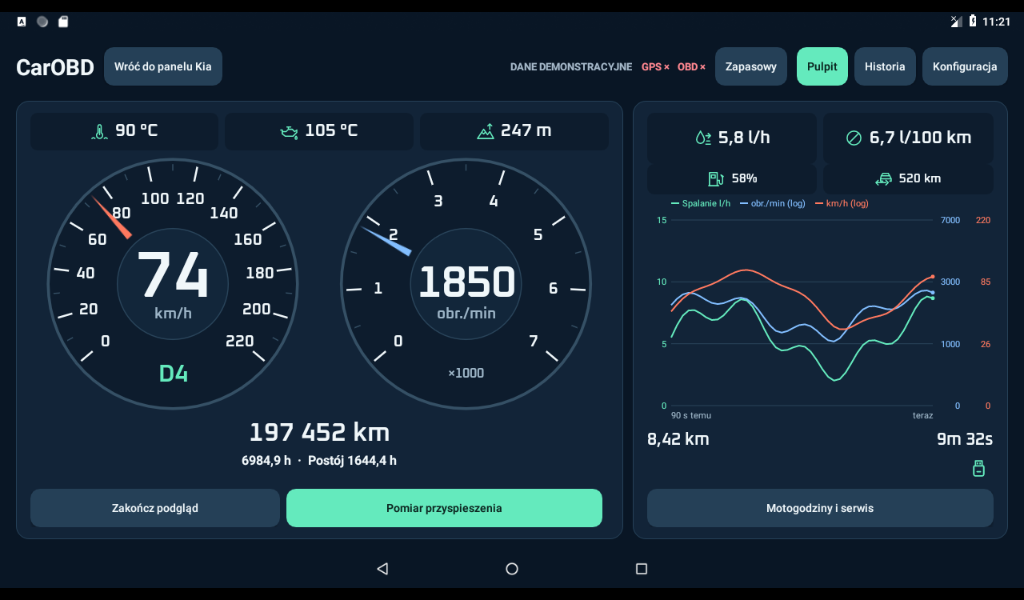
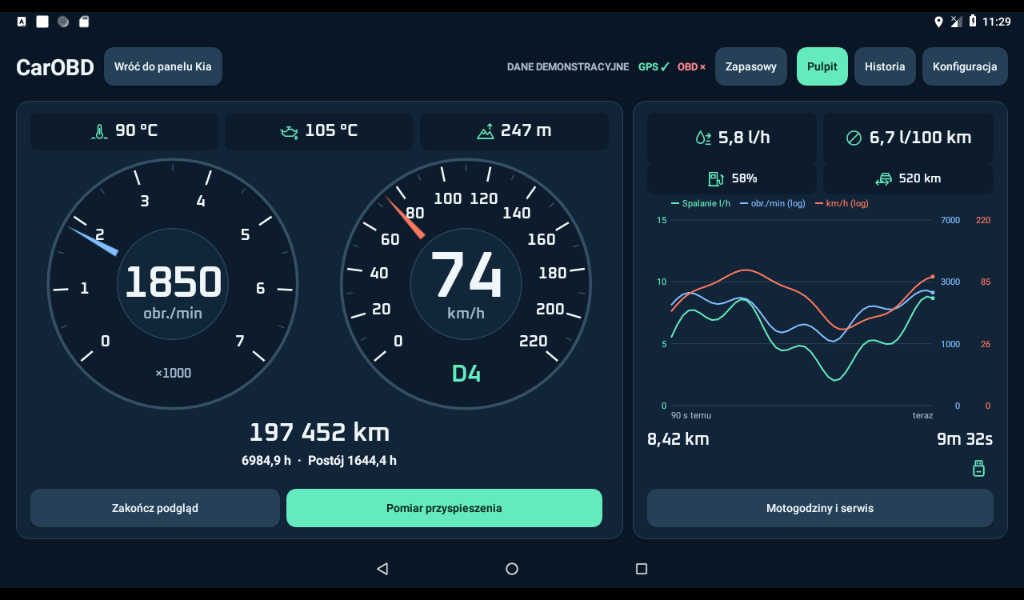
Swap CarOBD dials and prefer measured fuel percentage

diff --git a/android-radio/src/pl/marm/carobd/Dashboard.java b/android-radio/src/pl/marm/carobd/Dashboard.java
@@ -195,9 +195,9 @@ public final class Dashboard extends Activity {
         clockArea.addView(clocks,new FrameLayout.LayoutParams(-1,-1));
         speedDial=new Instruments.Dial(this,instrumentsFont,"Prędkość","km/h",Instruments.SPEED_LIMIT,20,Instruments.ORANGE);
         rpmDial=new Instruments.Dial(this,instrumentsFont,"Obroty","obr./min",Instruments.RPM_LIMIT,1000,Instruments.BLUE);
-        weight(clocks,speedDial,1);
-        gap(clocks,10);
         weight(clocks,rpmDial,1);
+        gap(clocks,10);
+        weight(clocks,speedDial,1);
         recordingDot=new View(this); recordingDot.setBackground(box(RECORDING,6));
         recordingDot.setContentDescription("Trwa zapis przejazdu");
         recordingDot.setImportantForAccessibility(View.IMPORTANT_FOR_ACCESSIBILITY_YES);
@@ -374,11 +374,13 @@ public final class Dashboard extends Activity {
         reading(consumption,(live.fuelSource==2 && !demo && Double.isFinite(live.rate) ? "~" : "")+
             (demo ? "5,8" : fmt(live.rate,1))+" l/h");
         reading(tripMean,(demo ? "6,7" : fmt(live.mean,1))+" l/100 km");
-        double fuel=demo ? 58 : Double.isFinite(live.tankLiters) ? 100*live.tankLiters/Elm.KIA_TANK_L : live.fuel;
+        boolean estimatedFuel=!demo && !Double.isFinite(live.fuel) && Double.isFinite(live.tankLiters);
+        double fuel=demo ? 58 : estimatedFuel ? 100*live.tankLiters/Elm.KIA_TANK_L : live.fuel;
+        tank.setTag(estimatedFuel ? "Poziom paliwa szacowany z litrów OBD" : "Poziom paliwa");
         JSONObject range=EngineHours.kiaProfile(vehicle) ? null : NasHistory.telemetry(settings,vehicle).optJSONObject("range");
         long age=range==null ? Long.MAX_VALUE : System.currentTimeMillis()/1000-range.optLong("t",0);
         double nasRange=age>=0 && age<=6*3600 ? range.optDouble("range_km") : Double.NaN;
-        reading(tank,Double.isFinite(fuel) ? fmt(fuel,0)+"%" : "—");
+        reading(tank,Double.isFinite(fuel) ? (estimatedFuel ? "~" : "")+fmt(fuel,0)+"%" : "—");
         reading(rangeValue,demo ? "520 km" : Double.isFinite(nasRange) ? fmt(nasRange,0)+" km" : "—");
         fuelChart.sample(live.rate,live.rpm,live.speed,now,demo);
         changed(arm,demo ? "Zakończ podgląd" : "Włącz lokalizację");

diff --git a/android-radio/src/pl/marm/carobd/Elm.java b/android-radio/src/pl/marm/carobd/Elm.java
@@ -6,7 +6,7 @@ import java.util.regex.Pattern;
 
 /** Wyłącznie odczyt OBD. Skalowanie jak w CarOBD ESP. */
 final class Elm {
-    static final int COOLANT=0x05, OIL=0x5c;
+    static final int COOLANT=0x05, OIL=0x5c, FUEL_LEVEL=0x2f;
     static final double KIA_TANK_L=71;
     private static final double KIA_ODO_CORRECTION_KM=0.0; // Opcjonalna korekta kalibracji w kilometrach.
     private static final int KIA_ODO_OFFSET=49*2;
@@ -120,7 +120,7 @@ final class Elm {
     Sample read(String fuel, int tick) throws Exception {
         Sample data=new Sample();
         data.rpm=value(0x0c);
-        if (tick % 5 == 0) data.fuel=value(0x2f);
+        if (tick % 5 == 0) data.fuel=value(FUEL_LEVEL);
         boolean diesel="diesel".equals(fuel);
         if (fuelPid==0 && tick % 8 == 0) {
             for (int pid : diesel ? new int[]{0x5e,0x9d} : new int[]{0x5e,0x9d,0x10}) {
@@ -160,7 +160,7 @@ final class Elm {
     }
     static double decode(int pid, String response) {
         String tag=String.format(Locale.ROOT,"41%02X",pid);
-        int length=(pid==0x0d || pid==0x2f || pid==COOLANT || pid==OIL) ? 2 : 4;
+        int length=(pid==0x0d || pid==FUEL_LEVEL || pid==COOLANT || pid==OIL) ? 2 : 4;
         Pattern payload=Pattern.compile("^"+tag+"([0-9A-F]{"+length+"})(?:[0-9A-F]{2})*$");
         for (String row : response.toUpperCase(Locale.ROOT).split("[\r\n>]")) {
             Matcher m=payload.matcher(row.replaceAll("\\s+", ""));
@@ -170,7 +170,7 @@ final class Elm {
                 case COOLANT: case OIL: return number-40;
                 case 0x0d: return number;
                 case 0x0c: return number/4.0;
-                case 0x2f: return number*100/255.0;
+                case FUEL_LEVEL: return number*100/255.0;
                 case 0x5e: return number/20.0;
                 case 0x9d: return number*0.02;
                 case 0x10: return number/100.0;

diff --git a/android-radio/src/pl/marm/carobd/Recorder.java b/android-radio/src/pl/marm/carobd/Recorder.java
@@ -63,8 +63,8 @@ public final class Recorder extends Service {
     private int bootCount;
     private long resumedUntil;
     private long ecuAt=-1,gpsAt=-1,stoodAt=-1,maintenanceAt=-30000;
-    private long coolantAt=-1,oilAt=-1,odometerAt=-1,tankAt=-1,gearAt=-1,proxyAt=-3000;
-    private static final long ODOMETER_PERIOD=30000, ODOMETER_FRESH=90000;
+    private long coolantAt=-1,oilAt=-1,odometerAt=-1,fuelLevelAt=-1,tankAt=-1,gearAt=-1,proxyAt=-3000;
+    private static final long ODOMETER_PERIOD=30000, ODOMETER_FRESH=90000, FUEL_LEVEL_FRESH=45000;
     private Location lastLocation;
     private String adapterStatus="Brak połączenia OBD";
     private NotificationManager notifications;
@@ -188,6 +188,7 @@ public final class Recorder extends Service {
             if (now-coolantAt>TEMP_FRESH) state.coolant=Double.NaN;
             if (now-oilAt>TEMP_FRESH) state.oil=Double.NaN;
             if (now-odometerAt>ODOMETER_FRESH) state.odometer=Double.NaN;
+            if (now-fuelLevelAt>FUEL_LEVEL_FRESH) state.fuel=Double.NaN;
             if (now-tankAt>150000) state.tankLiters=Double.NaN;
             if (!fresh(gearAt,now)) state.gear="";
             if (now-proxyAt>=3000) {
@@ -247,7 +248,7 @@ public final class Recorder extends Service {
     private void engine(Elm.Sample sample,long at) {
         if (!active) return;
         state.rpm=sample.rpm; state.rate=sample.rate; state.fuelSource=sample.source;
-        if (Double.isFinite(sample.fuel)) state.fuel=sample.fuel;
+        if (Double.isFinite(sample.fuel)) { state.fuel=sample.fuel; fuelLevelAt=at; }
         double v=fresh(ecuAt,at) ? state.speed : Double.NaN;
         ignition.observe(sample.rpm,v,at);
         try {

diff --git a/android-radio/tests/TelemetryTest.java b/android-radio/tests/TelemetryTest.java
@@ -24,7 +24,10 @@ public final class TelemetryTest {
         missing(Elm.decode(0x10,"NO DATA"));
         missing(Elm.decode(0x0d,"7F0112"));
         missing(Elm.decode(0x0d,"410D"));
-        equal(Elm.decode(0x2f,"412F00"),0);
+        equal(Elm.decode(Elm.FUEL_LEVEL,"412F00"),0);
+        equal(Elm.decode(Elm.FUEL_LEVEL,"41 2F 38\r>"),56*100/255.0);
+        equal(Elm.decode(Elm.FUEL_LEVEL,"412FFF"),100);
+        missing(Elm.decode(Elm.FUEL_LEVEL,"NO DATA>"));
         equal(Elm.decode(Elm.COOLANT,"41 05 82\r>"),90);
         equal(Elm.decode(Elm.COOLANT,"41051E>"),-10);
         equal(Elm.decode(Elm.OIL,"415C91>"),105);
@@ -83,6 +86,8 @@ public final class TelemetryTest {
         session.init(); equal(session.speed(),70);
         Elm.Sample sample=session.read("diesel",0);
         equal(sample.rpm,2000); equal(sample.rate,0.5*3600/832); equal(sample.source,4);
+        equal(sample.fuel,128*100/255.0);
+        missing(session.read("diesel",1).fuel);
         equal(session.temperature(true),90); missing(session.temperature(false));
         equal(session.odometer(),123456.7);
         if (!seen.containsAll(Arrays.asList("0105","015C"))) throw new AssertionError(seen);

diff --git a/android-radio/build_config.py b/android-radio/build_config.py
@@ -1,4 +1,4 @@
-VERSION="0.3.28"
+VERSION="0.3.29"
 API=34
 MIN_API=27
 BUILD_TOOLS="35.0.0"
